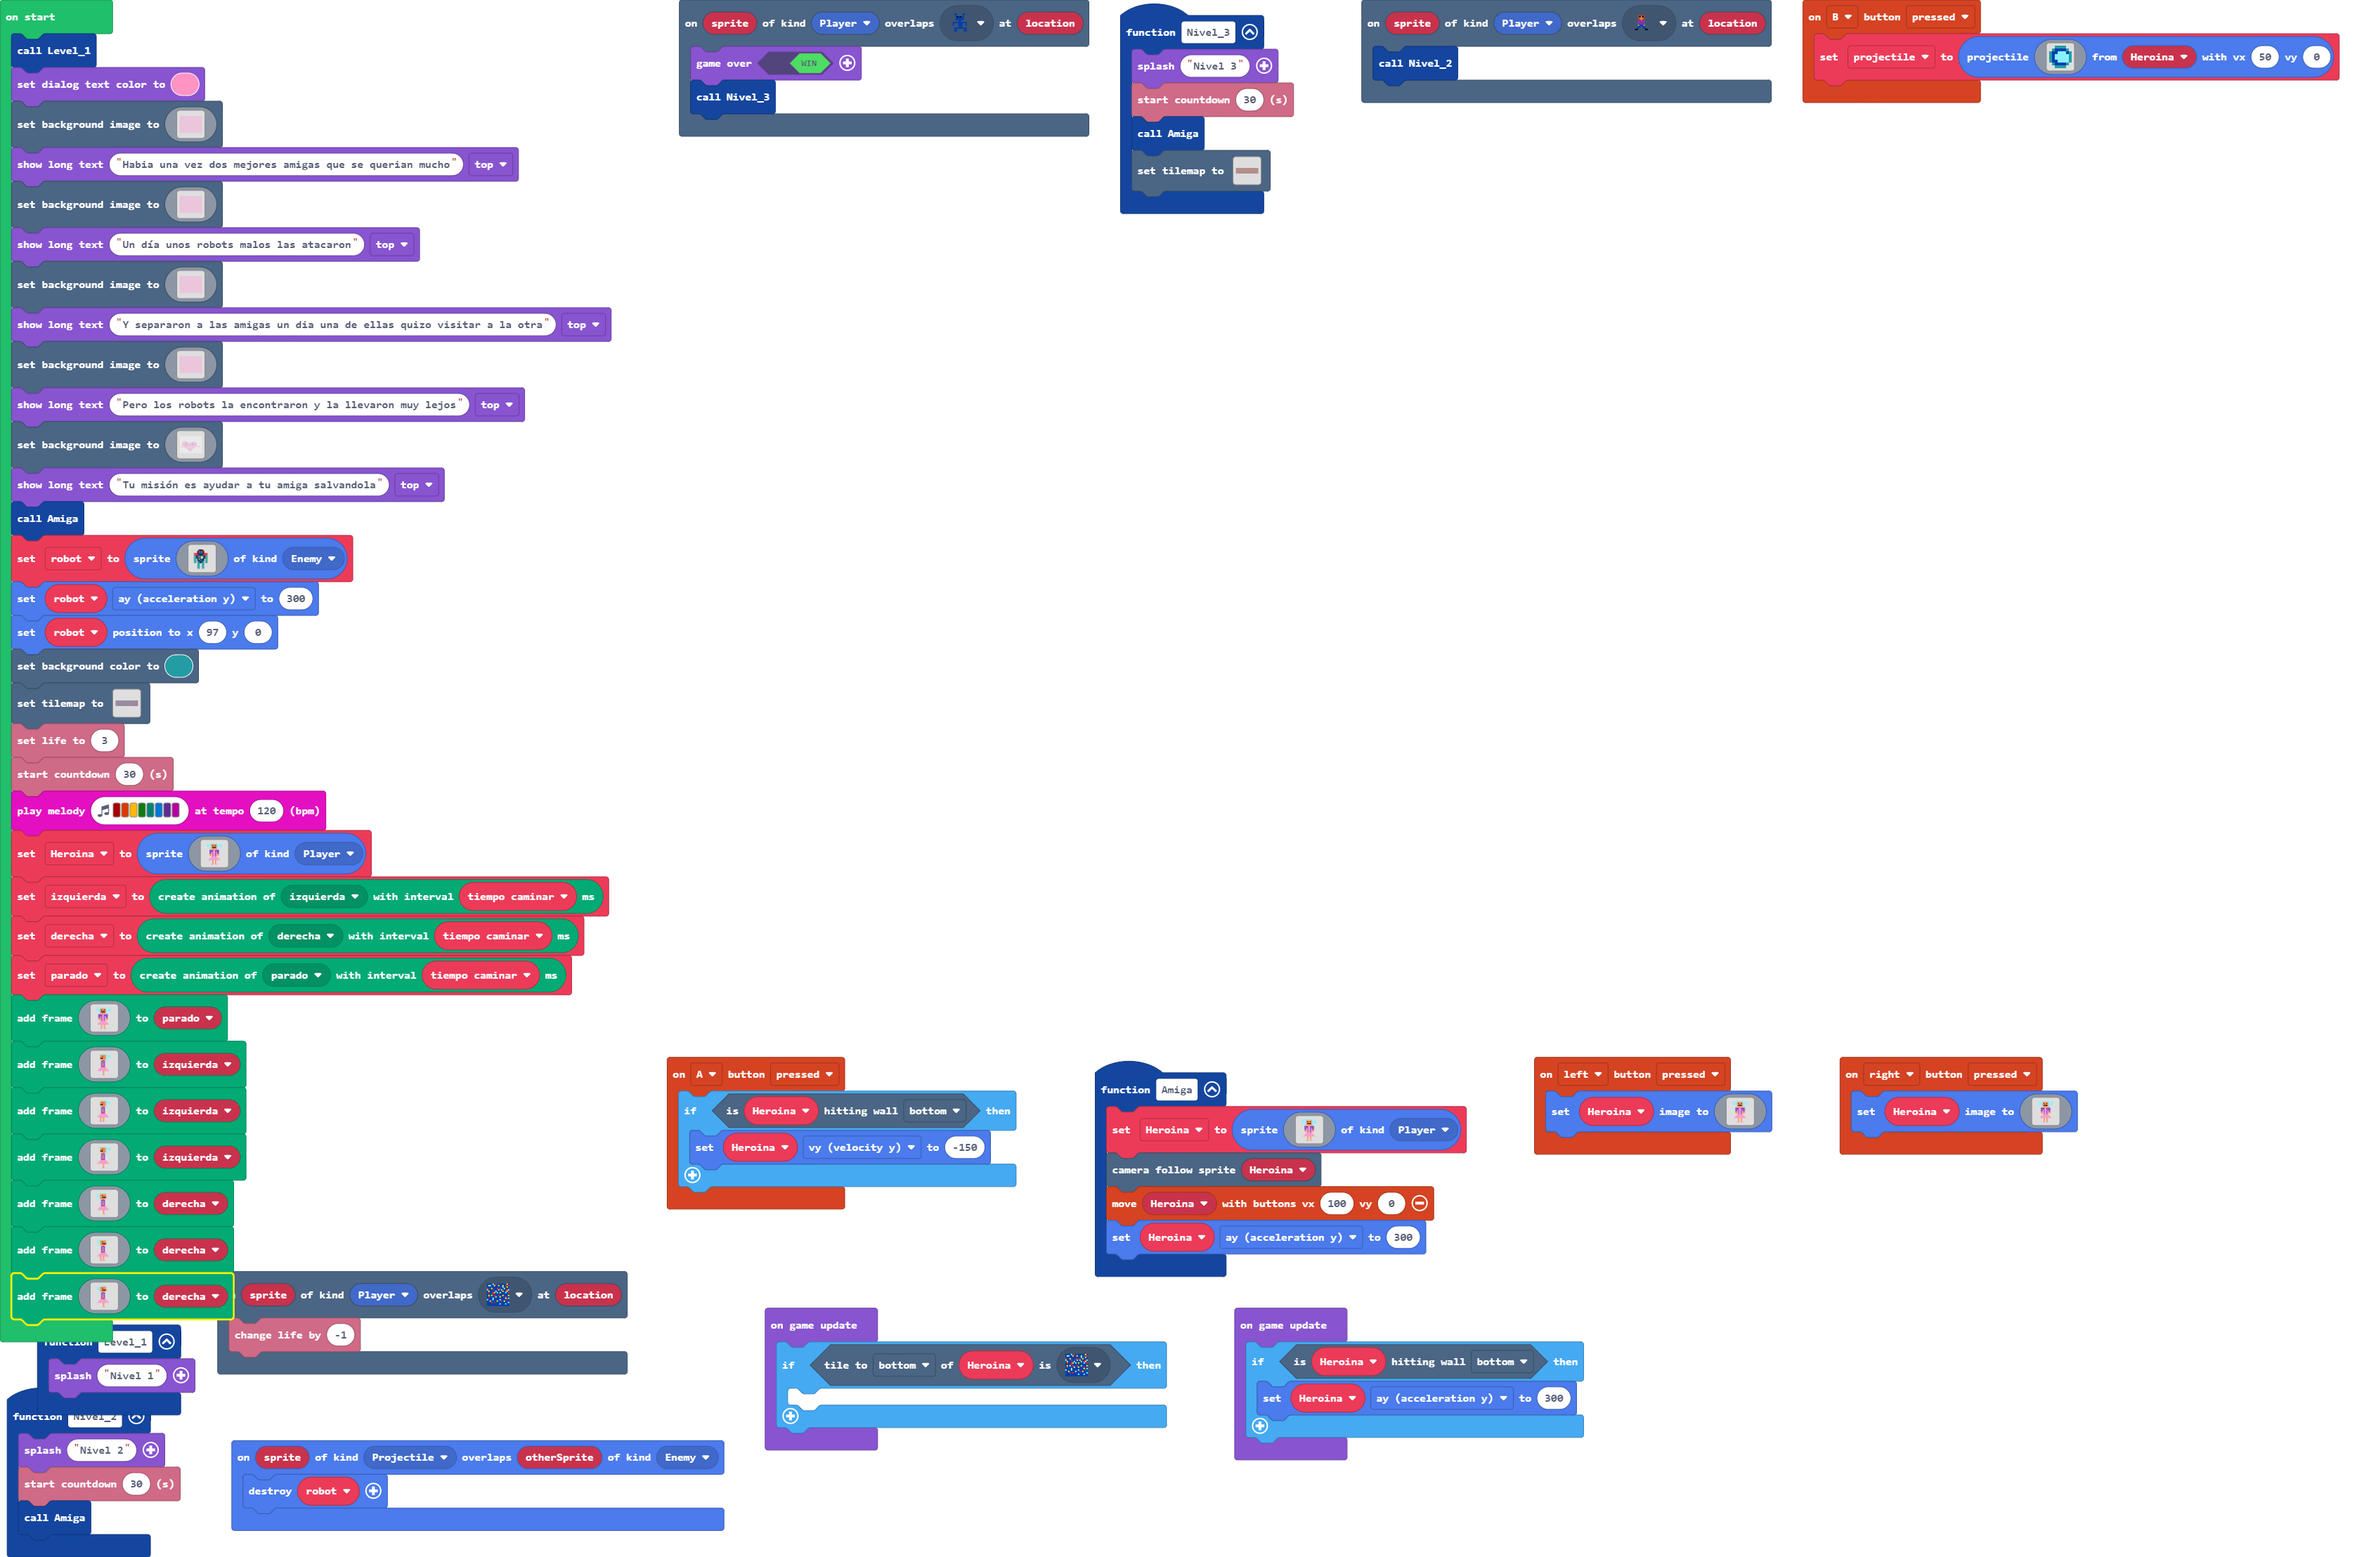
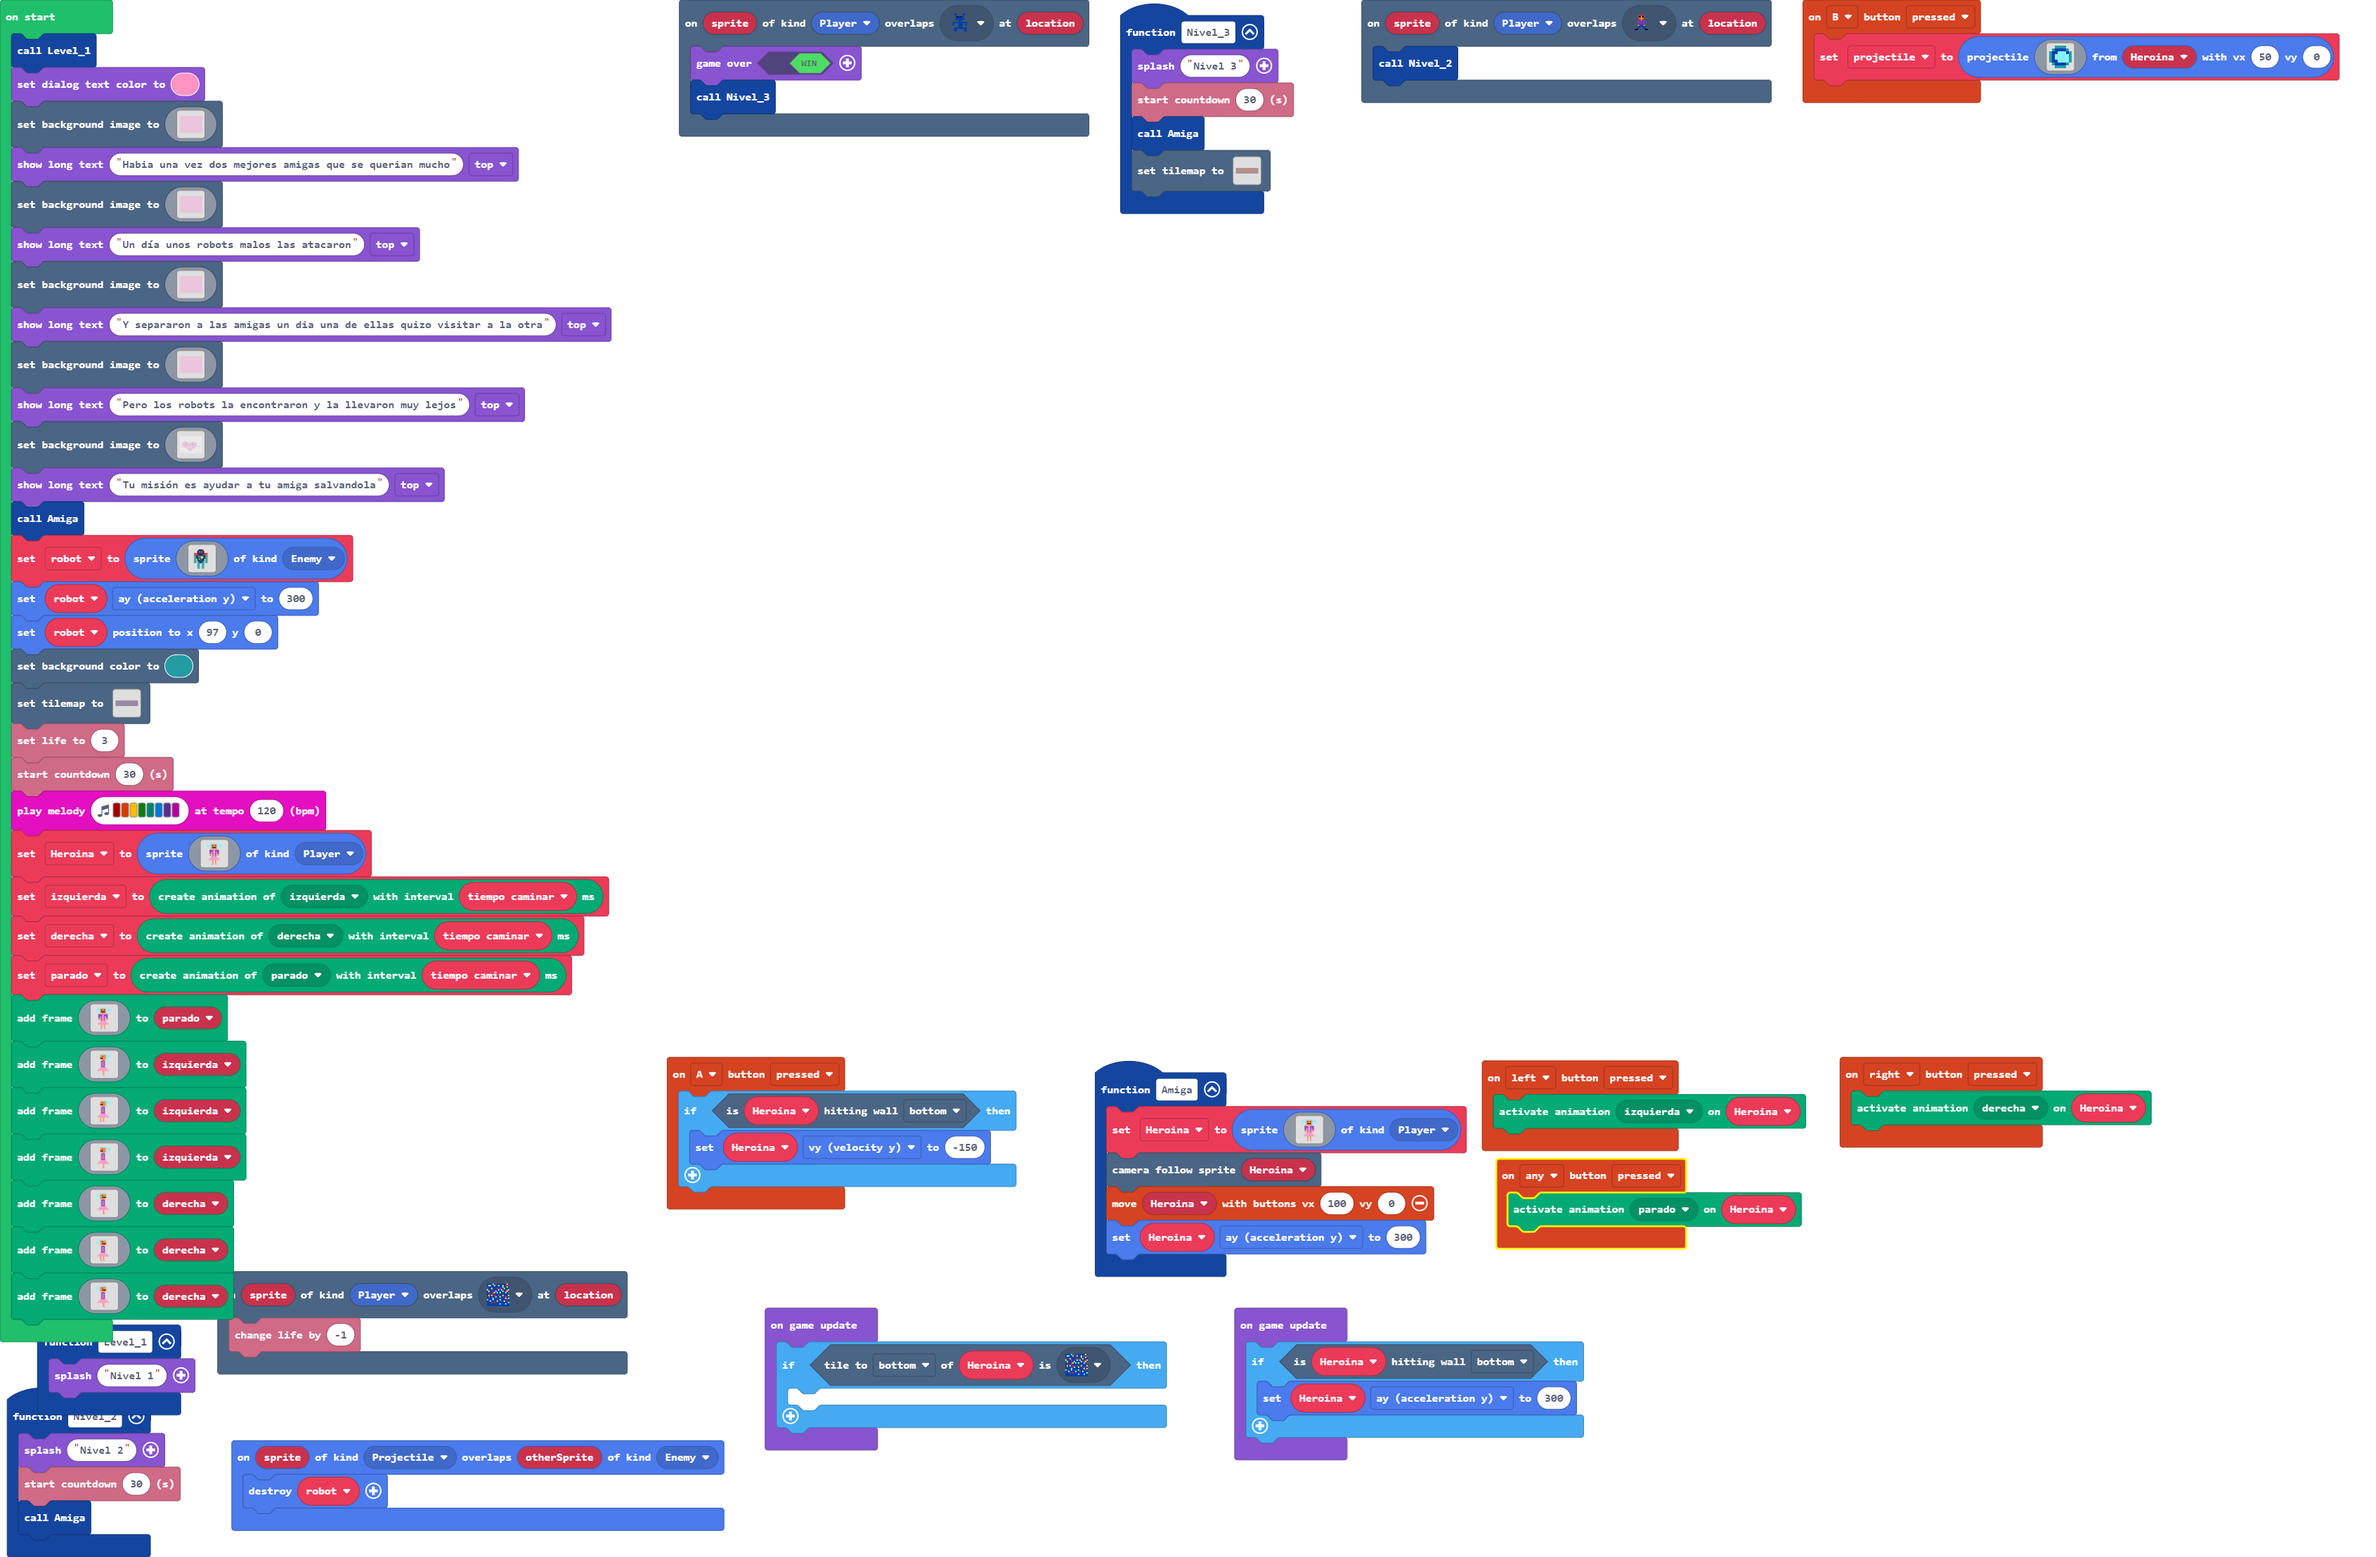
termine animacion

Changed region(s): [[0.6211, 0.6539, 0.9006, 0.8096]]

diff --git a/main.ts b/main.ts
@@ -58,6 +58,9 @@ function Level_1 () {
 scene.onOverlapTile(SpriteKind.Player, myTiles.tile4, function (sprite, location) {
     info.changeLifeBy(-1)
 })
+controller.anyButton.onEvent(ControllerButtonEvent.Pressed, function () {
+    animation.setAction(Heroina, ActionKind.parado)
+})
 controller.A.onEvent(ControllerButtonEvent.Pressed, function () {
     if (Heroina.isHittingTile(CollisionDirection.Bottom)) {
         Heroina.vy = -150
@@ -95,60 +98,10 @@ function Amiga () {
     Heroina.ay = 300
 }
 controller.left.onEvent(ControllerButtonEvent.Pressed, function () {
-    Heroina.setImage(img`
-        . . . . . . . . . . . . . . . . 
-        . . . . 9 9 9 9 9 9 9 9 . . . . 
-        9 9 9 . 9 4 4 4 4 4 4 9 . 9 9 9 
-        9 9 9 9 9 4 f 4 4 f 4 9 9 9 9 9 
-        9 9 9 . 9 4 4 4 4 4 4 9 . 9 9 9 
-        . . . . 9 4 f f f f 4 9 . . . . 
-        . . . 9 . 4 4 4 4 4 4 . 9 . . . 
-        . . . 9 . . . 4 4 . . . 9 . . . 
-        . . . a a a a 3 3 a a a a . . . 
-        . . . a a a a 3 3 a a a a . . . 
-        . . . a a . a 3 3 a . a a . . . 
-        . . . a a . a 3 3 a . a a . . . 
-        . . . 4 4 . a 3 3 a . 4 4 . . . 
-        . . . 4 4 . a 3 3 a . 4 4 . . . 
-        . . . . . . a 3 3 a . . . . . . 
-        . . . . . 3 3 3 3 3 3 . . . . . 
-        . . . . 3 3 3 3 3 3 3 3 . . . . 
-        . . . 3 3 3 3 3 3 3 3 3 3 . . . 
-        . . 3 3 3 3 3 3 3 3 3 3 3 3 . . 
-        . . . . . . 4 . . 4 . . . . . . 
-        . . . . . . 4 . . 4 . . . . . . 
-        . . . . . . 4 . . 4 . . . . . . 
-        . . . . . . 4 . . 4 . . . . . . 
-        . . . . . 3 3 . . 3 3 . . . . . 
-        `)
+    animation.setAction(Heroina, ActionKind.izquierda)
 })
 controller.right.onEvent(ControllerButtonEvent.Pressed, function () {
-    Heroina.setImage(img`
-        . . . . . . . . . . . . . . . . 
-        . . . . 9 9 9 9 9 9 9 9 . . . . 
-        9 9 9 . 9 4 4 4 4 4 4 9 . 9 9 9 
-        9 9 9 9 9 4 f 4 4 f 4 9 9 9 9 9 
-        9 9 9 . 9 4 4 4 4 4 4 9 . 9 9 9 
-        . . . . 9 4 f f f f 4 9 . . . . 
-        . . . 9 . 4 4 4 4 4 4 . 9 . . . 
-        . . . 9 . . . 4 4 . . . 9 . . . 
-        . . . a a a a 3 3 a a a a . . . 
-        . . . a a a a 3 3 a a a a . . . 
-        . . . a a . a 3 3 a . a a . . . 
-        . . . a a . a 3 3 a . a a . . . 
-        . . . 4 4 . a 3 3 a . 4 4 . . . 
-        . . . 4 4 . a 3 3 a . 4 4 . . . 
-        . . . . . . a 3 3 a . . . . . . 
-        . . . . . 3 3 3 3 3 3 . . . . . 
-        . . . . 3 3 3 3 3 3 3 3 . . . . 
-        . . . 3 3 3 3 3 3 3 3 3 3 . . . 
-        . . 3 3 3 3 3 3 3 3 3 3 3 3 . . 
-        . . . . . . 4 . . 4 . . . . . . 
-        . . . . . . 4 . . 4 . . . . . . 
-        . . . . . . 4 . . 4 . . . . . . 
-        . . . . . . 4 . . 4 . . . . . . 
-        . . . . . 3 3 . . 3 3 . . . . . 
-        `)
+    animation.setAction(Heroina, ActionKind.derecha)
 })
 function Nivel_2 () {
     game.splash("Nivel 2")
